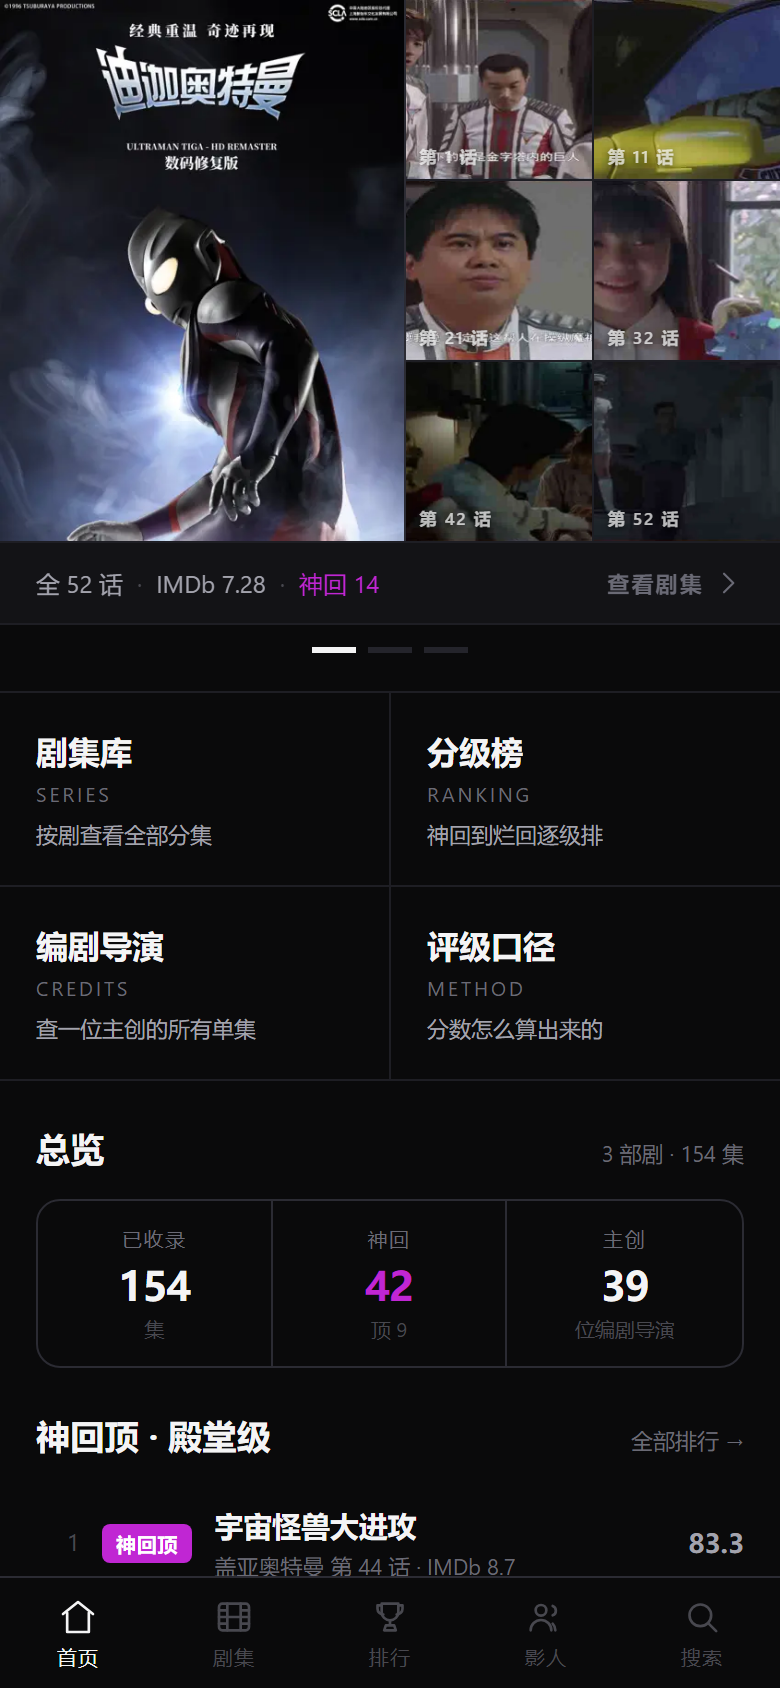
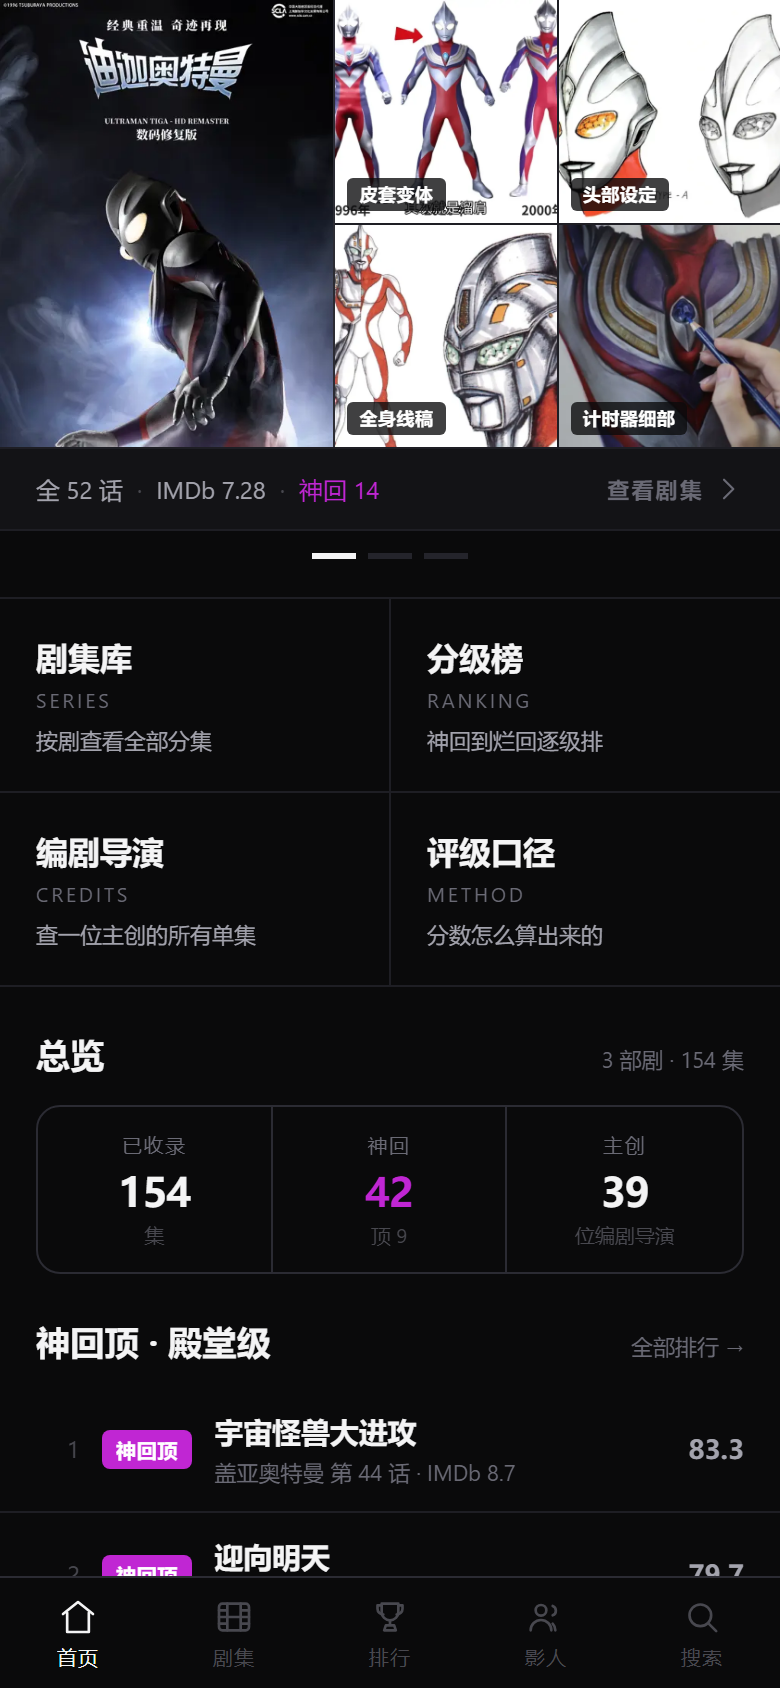
feat(home): 封面旁的 2x3 剧照墙改为 2x2 设计稿墙
布局
- 首页/剧集详情：左官方海报 + 右 2x2 设计稿，两栏等高（43% / 57%）
- 设计稿按 3:4 海报的高度撑满，格子为正方形
- 瓦片标签改为深色底片：设计稿多是白纸，纯白文字在浅底上看不清

素材（data/curated/designs.json 策展，12 张）
- 迪迦：皮套变体 / 头部设定 / 全身线稿 / 计时器细部
- 戴拿：皮套展示 / 头部设定 / 设定资料 / 原型雕塑
- 盖亚：版本对比 / 双人线稿 / 设定画集 / 细节渲染
- 没有配置设计稿的剧集自动退回用分集剧照填满同样 4 格，新增剧集不用改代码

工具与踩坑
- 新增 tools/fetch-design.mjs：搜罗设计稿类视频封面作候选
- 修：候选文件原本按序号命名，但搜索结果按播放量排序、每次重跑都会浮动，
  序号一变就丢失溯源。改为用 bvid 命名，manifest 记录 bvid/标题/播放量
- 坑：B 站视频封面大多是带大标题的推广图，40 张候选里干净的设计稿只有 4-6 张。
  必须先用 contact-sheet.py 出总览图，再挑疑似干净的做高分辨率复选，
  在 170px 小格子里看不清文字叠加，第一轮就误判了近一半

验证：11 条路由 x 390x844 无横向溢出；12 张设计稿合计 224 KB
说明：这些是视频封面而非官方设定画扫描件，部分带少量标题文字

diff --git a/src/components/art.tsx b/src/components/art.tsx
@@ -133,24 +133,33 @@ export function SeriesCover({ series, size = 'md' }: { series: Series; size?: 's
    剧照瓦片
    ============================================================ */
 
-const TILE_LABELS = ['剧照', '舞台剧', '周边', '海报', '设定集', '写真'];
+const TILE_LABELS = ['剧照', '舞台剧', '周边', '海报'];
 
-/** 真实剧照；点进去看对应单集。没有图片时退回扁平占位图形。 */
-export function PhotoTile({
-  series,
-  photo,
-  index,
-}: {
-  series: Series;
-  photo?: { src: string | null; no: number; label: string; title: string | null };
-  index: number;
-}) {
-  if (photo?.src) {
-    return (
-      <Link className="photo-tile" to={`/ep/${series.id}-${photo.no}`} title={photo.title ?? photo.label}>
-        <img src={photo.src} alt={photo.title ?? photo.label} loading="lazy" decoding="async" />
-        <span className="tile-label">{photo.label}</span>
+export interface TileItem {
+  src: string | null;
+  label: string;
+  title?: string | null;
+  /** 有 to 时可点进对应单集；设计稿没有对应单集，所以为 null */
+  to?: string | null;
+}
+
+/** 一格瓦片。有图用真图，没图退回扁平占位图形。 */
+export function PhotoTile({ series, item, index }: { series: Series; item?: TileItem; index: number }) {
+  if (item?.src) {
+    const body = (
+      <>
+        <img src={item.src} alt={item.title ?? item.label} loading="lazy" decoding="async" />
+        <span className="tile-label">{item.label}</span>
+      </>
+    );
+    return item.to ? (
+      <Link className="photo-tile" to={item.to} title={item.title ?? item.label}>
+        {body}
       </Link>
+    ) : (
+      <div className="photo-tile" title={item.title ?? item.label}>
+        {body}
+      </div>
     );
   }
 
@@ -181,13 +190,29 @@ export function PhotoTile({
   );
 }
 
-/** 首页右侧剧照拼贴：2×3 六格，方形裁切 */
-export function PhotoMosaic({ series, count = 6 }: { series: Series; count?: number }) {
-  const photos = (series.images?.photos ?? []).slice(0, count);
+/**
+ * 首页封面旁的 2×2 拼贴。
+ * 优先用设计稿（data/curated/designs.json 策展）；该剧没配设计稿时，
+ * 用均匀分布的分集剧照填满同样的 4 格。
+ */
+export function PhotoMosaic({ series, count = 4 }: { series: Series; count?: number }) {
+  const designs = series.images?.designs ?? [];
+  const photos = series.images?.photos ?? [];
+
+  const items: TileItem[] =
+    designs.length >= count
+      ? designs.slice(0, count).map((d) => ({ src: d.src, label: d.label, title: d.note, to: null }))
+      : photos.slice(0, count).map((p) => ({
+          src: p.src,
+          label: p.label,
+          title: p.title,
+          to: `/ep/${series.id}-${p.no}`,
+        }));
+
   return (
     <div className="hero-mosaic">
       {Array.from({ length: count }).map((_, i) => (
-        <PhotoTile key={i} series={series} photo={photos[i]} index={i} />
+        <PhotoTile key={i} series={series} item={items[i]} index={i} />
       ))}
     </div>
   );

diff --git a/src/styles/app.css b/src/styles/app.css
@@ -228,11 +228,11 @@ input {
 /* ============================================================
    首页 Hero —— 左封面 / 右照片墙
    ============================================================ */
-/* 左：3:4 海报（真实尺寸，不裁切）；右：2×3 剧照拼贴，方形裁切 */
+/* 左：3:4 官方海报；右：2×2 设计稿，方形裁切。两栏等高 */
 .hero {
   position: relative;
   display: grid;
-  grid-template-columns: 52% 48%;
+  grid-template-columns: 43% 57%;
   border-bottom: 1px solid var(--line-soft);
 }
 
@@ -246,7 +246,7 @@ input {
 .hero-mosaic {
   display: grid;
   grid-template-columns: 1fr 1fr;
-  grid-template-rows: repeat(3, 1fr);
+  grid-template-rows: 1fr 1fr;
   gap: 1px;
   background: var(--line-soft);
 }
@@ -663,7 +663,7 @@ input {
 .detail-hero {
   position: relative;
   display: grid;
-  grid-template-columns: 52% 48%;
+  grid-template-columns: 43% 57%;
   border-bottom: 1px solid var(--line-soft);
 }
 

diff --git a/src/styles/art.css b/src/styles/art.css
@@ -160,7 +160,17 @@
 
 .photo-tile .tile-label {
   position: absolute;
-  left: 7px;
+  left: 6px;
   bottom: 6px;
   z-index: 2;
+  font-size: 9px;
+  font-weight: 700;
+  letter-spacing: 0.03em;
+  line-height: 1.6;
+  color: #fff;
+  /* 深色底片：设计稿多是白纸，纯白文字在浅底上看不清 */
+  background: rgba(10, 10, 11, 0.78);
+  padding: 1px 6px;
+  border-radius: 3px;
+  text-shadow: none;
 }

diff --git a/src/types.ts b/src/types.ts
@@ -67,6 +67,8 @@ export interface Series {
   images: {
     cover: string | null;
     square: string | null;
+    /** 设计稿（首页封面旁 2×2）。为空时回退用 photos。 */
+    designs: { src: string | null; label: string; note: string | null; bvid: string | null }[];
     photos: { src: string | null; no: number; label: string; title: string | null }[];
   };
   episodes: Episode[];

diff --git a/tools/contact-sheet.py b/tools/contact-sheet.py
@@ -1,32 +1,60 @@
 #!/usr/bin/env python
-"""把某部剧的全部分集剧照拼成一张总览图，方便一次性检查取帧质量。"""
+"""
+把一批图片拼成一张总览图，一次性检查素材质量（省 token，不用逐张看）。
+
+用法：
+  python tools/contact-sheet.py tiga                      # 迪迦分集剧照
+  python tools/contact-sheet.py .cache/design-candidates/tiga --cols 8
+  python tools/contact-sheet.py <目录> [--cols N] [--out 名字]
+"""
 import sys
 from pathlib import Path
 
 from PIL import Image, ImageDraw
 
 ROOT = Path(__file__).resolve().parent.parent
-sid = sys.argv[1] if len(sys.argv) > 1 else "tiga"
-cols = int(sys.argv[2]) if len(sys.argv) > 2 else 8
-
-files = sorted((ROOT / "public" / "img" / sid / "ep").glob("*.webp"))
-if not files:
-    print("没有剧照")
+argv = sys.argv[1:]
+if not argv:
+    print(__doc__)
     raise SystemExit(1)
 
-tw, th = 160, 90
+target = argv[0]
+cols = int(argv[argv.index("--cols") + 1]) if "--cols" in argv else 8
+outname = argv[argv.index("--out") + 1] if "--out" in argv else None
+
+# 传剧集 id 时走默认剧照目录
+if target in ("tiga", "dyna", "gaia") and not Path(target).exists():
+    directory = ROOT / "public" / "img" / target / "ep"
+else:
+    directory = Path(target)
+    if not directory.is_absolute():
+        directory = ROOT / directory
+
+files = sorted(p for p in directory.glob("*.webp"))
+if not files:
+    files = sorted(directory.glob("*.jpg")) + sorted(directory.glob("*.png"))
+if not files:
+    print(f"{directory} 里没有图片")
+    raise SystemExit(1)
+
+tw, th = 170, 170
 rows = (len(files) + cols - 1) // cols
 sheet = Image.new("RGB", (cols * tw, rows * (th + 14)), (14, 14, 16))
 draw = ImageDraw.Draw(sheet)
 
 for i, f in enumerate(files):
-    im = Image.open(f).convert("RGB").resize((tw, th), Image.LANCZOS)
+    im = Image.open(f).convert("RGB")
+    # 居中裁成正方形再缩放，保持总览整齐
+    w, h = im.size
+    s = min(w, h)
+    im = im.crop(((w - s) // 2, (h - s) // 2, (w - s) // 2 + s, (h - s) // 2 + s)).resize((tw, th), Image.LANCZOS)
     x = (i % cols) * tw
     y = (i // cols) * (th + 14)
     sheet.paste(im, (x, y))
     draw.text((x + 3, y + th + 1), f.stem, fill=(200, 200, 210))
 
-out = ROOT / ".cache" / f"contact-{sid}.png"
+label = outname or f"contact-{directory.name}"
+out = ROOT / ".cache" / f"{label}.png"
 out.parent.mkdir(parents=True, exist_ok=True)
 sheet.save(out, "PNG", optimize=True)
 print(f"{out}  ({sheet.width}x{sheet.height}, {len(files)} 张)")

diff --git a/docs/STATE.md b/docs/STATE.md
@@ -66,7 +66,30 @@ x/player/videoshot?bvid=&cid=&index=1       → image[] 雪碧图（10 列 × 48
 | `tools/fetch-images.mjs` | 下载官方海报 + 方图（B 站图床 `@440w_586h_1c.webp` 后缀压缩，原图 389KB → 8.8KB） |
 | `tools/fetch-videoshot.mjs` | 取全部 cid + 雪碧图，下载到 `.cache/videoshot/`（约 86 MB，可删，删了会重下） |
 | `tools/crop-stills.py` | 从雪碧图裁帧、去黑边、出 480×360 webp |
-| `tools/contact-sheet.py` | 把一部剧的全部剧照拼成一张总览图，**一次性检查取帧质量**（省 token） |
+| `tools/contact-sheet.py` | 把一批图拼成一张总览图，**一次性检查素材质量**（省 token） |
+| `tools/fetch-design.mjs` | 搜罗设计稿类视频封面作候选 |
+
+## 首页设计稿墙（2×2）
+
+官方海报旁边那 4 格是**设计稿**（不是剧照），配置在 `data/curated/designs.json`。
+没有配置设计稿的剧集会自动退回用分集剧照填满同样 4 格，所以新增剧集不用改代码。
+
+**坑 3：`fetch-design.mjs` 一开始用序号命名候选文件。**
+搜索结果按播放量排序，**每次重跑顺序都会浮动**，序号一变就再也对不上是哪张图，溯源直接丢失。
+现在改成用 bvid 命名（`BV1GAu163Edp` → `1GAu163Edp.webp`），manifest 里也记了 bvid/标题/播放量。
+
+**坑 4：B 站视频封面大多是带大标题的推广图。**
+搜索出来的 40 张候选里真正干净的设计稿只有 4–6 张。判断流程必须是：
+`contact-sheet.py` 出总览图 → **挑出疑似干净的做一张更高分辨率的复选图** → 才敢定稿。
+在 170px 的小格子里看不清文字叠加，容易误判（我第一轮就选错了一半）。
+
+当前 12 张（每剧 4 张）的定位：
+- 迪迦：皮套变体 / 头部设定 / 全身线稿 / 计时器细部
+- 戴拿：皮套展示 / 头部设定 / 设定资料 / 原型雕塑
+- 盖亚：版本对比 / 双人线稿 / 设定画集 / 细节渲染
+
+⚠ 这些是视频封面，不是原始设定画扫描件，部分带少量标题文字。
+作为 App 内的资料展示够用；若要印刷级设定稿，需另找圆谷官方画集的正版图源。
 
 
 ## 怎么跑
